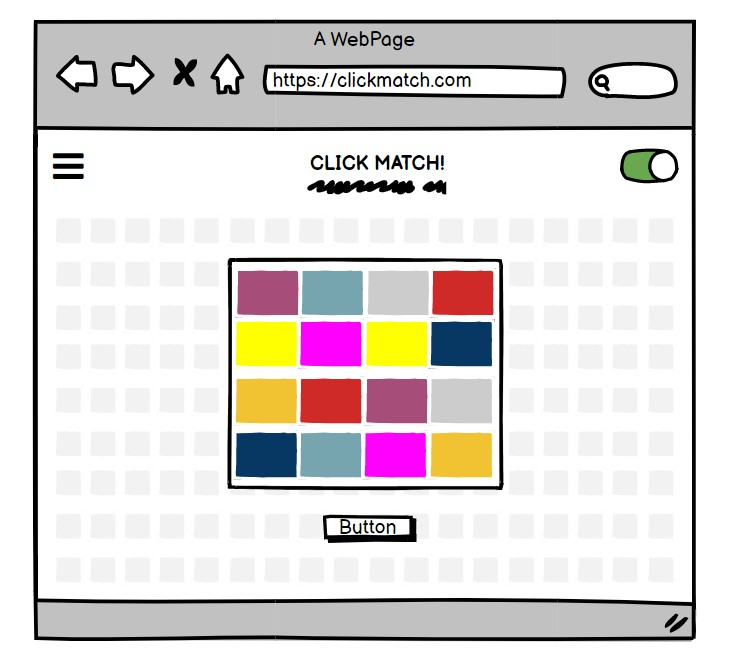
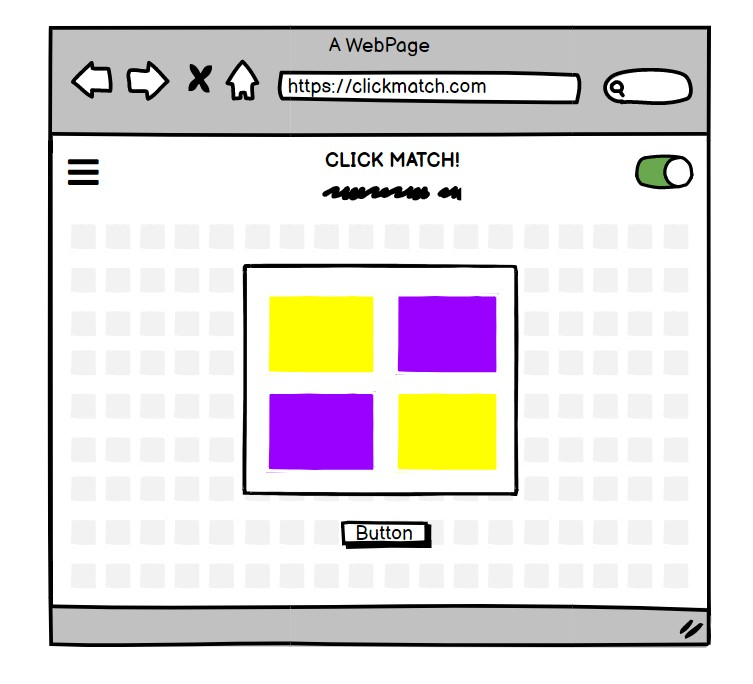
rewrote copy across readme for better clarity and fixed broken image link on the level 1 wireframe

Changed region(s): [[0.0301, 0.0304, 0.9644, 1.0], [0.3014, 0.3647, 0.6932, 0.8511]]

diff --git a/README.md b/README.md
@@ -6,7 +6,7 @@
 
 Click Match! is a memory game based on colour recognition and perception. The human eye has the capacity to recognise a broad range of colours, but subtle differences in how we perceive the colours aren't often highlighted. This game aims to make the exercise of colour recognition both fun and engaging.
 
-We see colours all the time but rarely pay attention differences in the hues, saturation and brightness. It is my hope that in playing this game we grow to observe colours more acutely and consequently the world at large.
+We see colours all the time but rarely pay attention to differences in the hues, saturation and brightness. It is my hope that in playing this game we grow to observe colours more acutely and consequently the world at large.
 
 ## User Experience (UX)
 
@@ -36,14 +36,14 @@ We see colours all the time but rarely pay attention differences in the hues, sa
 
   - #### Colour Scheme
 
-    - The colour scheme across the website is a combination of tints of greys and black. The website has a retro feel that lends itself to be both nostalgic and minimal. As the main focus is colour recognition I chose to keep most of the layout muted, to reduce distractions as the user tries to pay attention to the colours. The only exceptions are the logo and the game-pad icon. For the logo, I chose randomisation of colours on each page load to highlight the fact that the colours of the grid are shuffled every time. On the other hand, the game-pad icon is highlighted in colour when active and grey out when it's disabled after each click and before a level is completed. This in conjunction with the hint helps to guide the viewer through the game, for a fluid user experience.
+    - The colour scheme across the website is a combination of tints of greys and black. The website has a retro feel that lends itself to be both nostalgic and minimal. As the main focus is colour recognition I chose to keep most of the layout muted, to reduce distractions as the user tries to pay attention to the colours. The only exceptions are the logo and the game-pad icon. For the logo, I chose randomisation of colours on each page load to highlight the fact that the colours of the grid are shuffled every time. On the other hand, the game-pad icon is highlighted in colour when active and greyed out when it is disabled after each click and before a level is completed. This in conjunction with the hint helps to guide the viewer through the game, for a fluid user experience.
 
-    <h4>Logo and Game-pad Icon in colour everything else in greys<img src="assets/images/Design.jpg"></h4>
+    <h4>Logo and Game-pad Icon in colour, everything else in greys.<img src="assets/images/Design.jpg"></h4>
     <h4>Game-pad icon greyed out during game play, it gets activated again as the level is completed.<img src="assets/images/DesignGamePadIconDisabled.jpg"></h4>
 
   - #### Typography
     - The Google fonts Bungee and IBM Plex Mono are the two fonts used across the website with Cursive and Monospace as the alternative fonts respectively, for cases when the default options aren't loaded onto the website correctly.
-      Both fonts are very legible and contrast nicely together. With Bungee serving as the primary font giving the website are playful across all major sections and IBM Plex Mono as the body text used to create a contrast to the very bold look of Bungee.
+      Both fonts are very legible and contrast nicely together. Bungee serves as the primary font giving the website a playful feel across all the major sections, and IBM Plex Mono serves as the body text used to create a contrast to the very bold look of Bungee.
 
 - ### Wireframes
 
@@ -58,26 +58,26 @@ This section contains all the features of the website.
 
 ### Game Play Section
 
-This is the main section of the gameplay and is built using a responsive grid of 120 div elements, these divs are progressively divided to create Levels 1 to 4, containing 4, 8, 16 and 32 colour grids respectively. The gameplay is activated in the following sequence.
+This is the main section of the gameplay and is built using a responsive grid of 120 div elements. These divs are progressively divided to create Levels 1 to 4, containing 4, 8, 16 and 32 colour grids respectively. The gameplay is activated in the following sequence:
 
 - On page load, the user is presented with level 1 which contains 4 boxes all coloured grey.
 - A "hint" text above the boxes lets the user know to click on the game-pad icon below the boxes.
-- Upon clicking the boxes momentarily reveal the colours below them. The duration of how long the colours are displayed increases as the game progresses to more difficult levels.
-- Next, the hint suggests to the click on the boxes with a goal to reveal the colour pairs in sequence.
+- Upon clicking, the boxes momentarily reveal the colours below them. The duration of how long the colours are displayed increases as the game progresses to more difficult levels.
+- Next, the "hint" suggests to the click on the boxes with a goal to reveal the colour pairs in sequence.
 - A collection of game statistics help to inform the user of how many times they have clicked, the number of clicks left and scores.
 
 ### Navigation bar
 
 This section provides information on difficulty selections. An indication of what level the game is currently on and a toggle to switch the colour grid talked about above between light and dark mode.
 
-### How to Play
+### How-to-play
 
 This how-to section contains a breakdown of the rules of the game and an explanation of all the statistics that help the user progress through the levels and measures how much they have achieved in the process.
 
 ### Sign Up form and Email Contact Icon
 
 This beta version of the game currently has only four levels. The signup form here serves to help the users sign up for updates to the game as more features/levels added.
-There's also an email message icon that enables users to directly contact the developer of the game, by launching an email application and prefilling the contact email address.
+There is also an email message icon that enables users to directly contact the developer of the game, by launching an email application and prefilling the contact email address.
 
 ### Features Left to Implement
 
@@ -92,15 +92,12 @@ There's also an email message icon that enables users to directly contact the de
 - HTML5
 - CSS3
 - jQuery and Javascript
-- Hover.css
-- EmailJS
-- Hero Patterns
 
 ### Frameworks, Libraries & Programs Used
 
 - [Bootstrap](https://getbootstrap.com/)
 
-  - The games uses Bootstrap's library to aid responsiveness across various screen sizes and devices. The Colour grid is built entirely with bootstrap with column classes that enables dynamic adjustment regardless of screen size.
+  - The game uses Bootstrap's library to aid responsiveness across various screen sizes and devices. The Colour grid is built entirely with bootstrap with column classes that enables dynamic adjustment regardless of screen size.
 
 - [JQuery](https://jquery.com) and Javascript
 
@@ -115,7 +112,7 @@ There's also an email message icon that enables users to directly contact the de
 
 - [Font Awesome](https://fontawesome.com/)
 
-  - Font Awesome was used for the light and dark mode toggle, the game-pad icon and email icon in the footer, these help to improve User Experience and User Interface design.
+  - Font Awesome was used for the light and dark mode toggle icon, the game-pad icon, the how-to-play icon, statistics icon and email icon in the footer. These help to improve User Experience and User Interface design.
 
 - [Git](https://git-scm.com/)
 
@@ -135,7 +132,7 @@ There's also an email message icon that enables users to directly contact the de
 
 - [Hero Patterns](www.heropatterns.com)
 
-  - A background-image CSS styling was used from hero patterns to give a subtle texture to the background of the website.
+  - A background-image CSS styling was used from hero patterns to give a subtle texture to the website.
 
 - [Hover.css](https://ianlunn.github.io/Hover/)
   - Hover.css was used for the looping bob animation on the game-pad icon.
@@ -160,11 +157,11 @@ The W3C Markup Validator and W3C CSS Validator Services were used to validate th
 
   2. As a First Time Visitor, I want to be able to easily navigate throughout the site to find content.
 
-     - The site has been designed to be minimal with little distraction to its main focus which the colour grid. As a user enters the site they are no preambles or unnecessary steps before gameplay begins.
+     - The site has been designed to be minimal with little distraction to its main focus which is the colour grid. As a user enters the site, there are no preambles or unnecessary steps before gameplay begins.
 
   3. As a First Time Visitor, I want to easily find details about the rules of the game.
 
-     - The how to play section is right below the colour grid with a detailed explanation of how the game works.
+     - The how-to-play section is right below the colour grid with a detailed explanation of how the game works.
 
   4. As a First Time Visitor, I want to be able to measure my progress as I play the game.
 
@@ -178,11 +175,11 @@ The W3C Markup Validator and W3C CSS Validator Services were used to validate th
 
   1. As a Returning Visitor, I want to be able to easily continue the game, whilst keeping track of how well I have done in previous attempts.
 
-     - The navigation bar has a dropdown menu with all the available difficulty levels. So user can play from he/she whatever level was previously stuck in. Alternatively by default the game expects users to start from level 1 and work their way up in order to rack up more points and accumulate more clicks for the more difficult levels.
+     - The navigation bar has a dropdown menu with all the available difficulty levels. So users can play from whatever level was last played. Alternatively, by default, the game expects users to start from level 1 and work their way up in order to rack up more points and accumulate more clicks for the more difficult levels.
 
   2. As a Returning Visitor, I want to find the best way to get in contact with the organisation with any questions I may have.
 
-     1. On the footer there is a mail icon with a message beside it, letting the user know to send am email when a problem is encountered or for general inquires, that enquires. This email button on the footer is set up to automatically open up the user's email app and autofill the website's email address in the "To" section.
+     1. On the footer there is a mail icon with a message beside it, letting the user know to send am email when a problem is encountered or for general enquires. This email button on the footer is set up to automatically open up the user's email app and autofill the developer's email address in the "To" section.
 
 * #### Frequent User Goals
 
@@ -200,8 +197,8 @@ The W3C Markup Validator and W3C CSS Validator Services were used to validate th
 | ---------------------------------------- | ---------------------------------------------------------------------------------------------------------------------------------------- | ------------------------------------------------ | ---------------------------------------------------------------------------------------------------------------------------------------------------------------------------------------------------------------------------- |
 | Responsiveness                           | Multiple devices on different operating systems were used with Safari, Chrome and Firefox                                                | Consistent Layout, behaviour and Icons           | I noticed certain inconsistencies on the iPhone 12, which I fixed in CSS using the appearance attribute                                                                                                                      |
 | Colour appearance on different screens   | Testing colour representation on various device screens LCD, OLED and AMOLED                                                             | Consistent gaming experience                     | Yes, the result was consistent.                                                                                                                                                                                              |
-| EmailJS functionality                    | Testing with varied accounts and inserting console logging and consequently modal triggers. To alert the user to either success or error | Consistent behaviour and ability to catch errors | Yes, it worked perfectly                                                                                                                                                                                                     |
-| Generating Colours and Level Progression | Console logging and alerts to indicate when function where producing desired arrays                                                      | Consistent behaviour with stress testing         | I noticed my initial implementation of the game-pad click allowed for multiple clicks on the button which created undesirable results. I fixed this by disabling the button right after it is clicked until it is needed again. |
+| EmailJS functionality                    | Testing with varied accounts and inserting console-logging and consequently modal-triggers to alert the user to either a successful submission or an error | Consistent behaviour and ability to catch errors | Yes, it worked perfectly                                                                                                                                                                                                     |
+| Generating Colours and Level Progression | Console-logging and alerts to indicate when function were producing desired arrays                                                      | Consistent behaviour with stress testing         | I noticed my initial implementation of the game-pad click allowed for multiple clicks on the button which created undesirable results. I fixed this by disabling the button right after it is clicked until it is needed again. |
 
 - Friends and family members were asked to review the site and documentation to point out any bugs and/or user experience issues.
 - Additional automated testing was done using [Browser Stack](https://live.browserstack.com/)
@@ -255,7 +252,7 @@ Click [Here](https://help.github.com/en/github/creating-cloning-and-archiving-re
 
 - [Bootstrap](https://getbootstrap.com/docs/4.5/getting-started/introduction/): Bootstrap Library was used throughout the project mainly to make the website responsive using the Bootstrap Grid System.
 
-- [HTML & CSS](https://www.w3schools.com/): I researched a lot of code support from W3 Schools. Additional research on CSS was done on [CSS Tricks](https://css-tricks.com/). Animation on game icon was done with [Hover.css](https://ianlunn.github.io/Hover/). Lastly background-image pattern wsa done with [Hero patterns](www.heropatterns.com).
+- [HTML & CSS](https://www.w3schools.com/): I researched a lot of code support from W3 Schools. Additional research on CSS was done on [CSS Tricks](https://css-tricks.com/). Animation on game icon was done with [Hover.css](https://ianlunn.github.io/Hover/). Lastly background-image pattern was done with [Hero patterns](www.heropatterns.com).
 
 - Code Pen - [Random number generator function](https://codepen.io/meowwwls/pen/jbEJRp),
 - Stack Overflow
